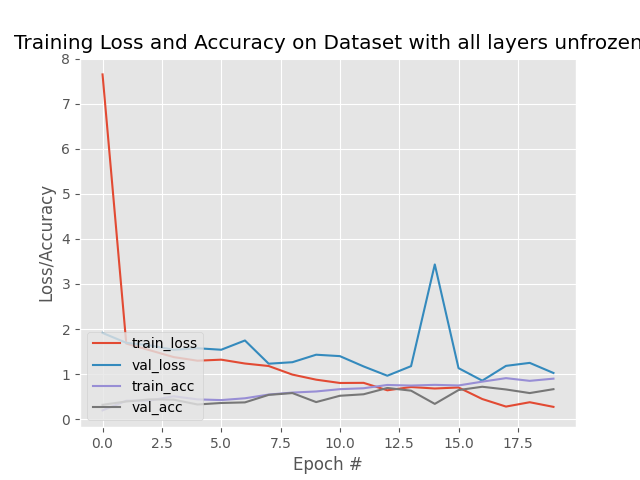
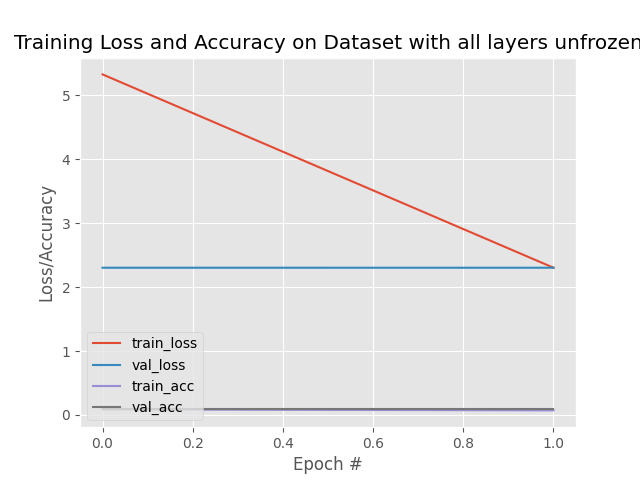
Code formatting

diff --git a/src/train_test_model.py b/src/train_test_model.py
@@ -5,20 +5,34 @@ from keras.metrics import CategoricalAccuracy
 import matplotlib.pyplot as plt
 import numpy as np
 
-def train_network(model, train_gen, val_gen, train_x, train_y, val_x, val_y, batch_s, epochs1, epochs2):
+
+def train_network(model, train_x, train_y, val_x, val_y, batch_s, epochs1, epochs2):
+    """
+    Function to train network in two steps:
+        * Train network with initial VGG base layers frozen
+        * Unfreeze all layers and retrain with smaller learning rate
+    :param model: CNN model
+    :param train_x: training input
+    :param train_y: training outputs
+    :param val_x: validation inputs
+    :param val_y: validation outputs
+    :param batch_s: batch size
+    :param epochs1: epoch count for initial training
+    :param epochs2: epoch count for training all layers unfrozen
+    :return: trained network
+    """
+
     # Train model with frozen layers
     # ALl training with early stopping dictated by loss in validation over 3 runs
     model.compile(optimizer=Adam(lr=1e-3),
                   loss=CategoricalCrossentropy(),
                   metrics=[CategoricalAccuracy()])
 
-    Hist = model.fit(
-        # x=train_gen.flow(train_x, train_y, batch_size=batch_size),
+    hist = model.fit(
         x= train_x,
         y=train_y,
         batch_size = batch_s,
         steps_per_epoch=len(train_x) // batch_s,
-        # validation_data=val_gen.flow(val_x, val_y),
         validation_data=(val_x, val_y),
         validation_steps=len(val_x) // batch_s,
         epochs=epochs1,
@@ -28,10 +42,8 @@ def train_network(model, train_gen, val_gen, train_x, train_y, val_x, val_y, bat
         ]
     )
 
-    # Plot validation and train loss over course of training
-
     # plot the training loss and accuracy
-    plot_training_results(Hist, "Initial_training.png")
+    plot_training_results(hist, "Initial_training.png")
 
     # Train again with slower learning rate unfreezing all layers
     # Train over fewer epochs to stop overfitting
@@ -41,10 +53,10 @@ def train_network(model, train_gen, val_gen, train_x, train_y, val_x, val_y, bat
                   loss=CategoricalCrossentropy(),
                   metrics=[CategoricalAccuracy()])
 
-    Hist_2 = model.fit(
+    hist_2 = model.fit(
         x=train_x,
         y=train_y,
-	batch_size = batch_s,
+        batch_size = batch_s,
         steps_per_epoch=len(train_x) // batch_s,
         validation_data=(val_x, val_y),
         validation_steps=len(val_x) // batch_s,
@@ -55,31 +67,38 @@ def train_network(model, train_gen, val_gen, train_x, train_y, val_x, val_y, bat
         ]
     )
 
-    plot_training_results(Hist_2, "Fine_tuning_training.png")
+    plot_training_results(hist_2, "Fine_tuning_training.png")
 
     return model
 
 
 def test_network(model, test_x):
-    # run predictions on text images and return predictions
+    """
+    :param model:  CNN model
+    :param test_x: testing inputs
+    :return: ouputs predicted by the model
+    """
     y_predict = model.predict(x=test_x.astype("float32"), batch_size=10)
 
     return y_predict
 
 
-def plot_training_results(hist, plot_name):
-    # plot the training loss and accuracy
-    N = len(hist.history["loss"])
+def plot_training_results(hist_input, plot_name):
+    """
+    Function to plot loss and accuracy over epoch count for training
+    :param hist: training history
+    :param plot_name: plot name
+    """
+    n = len(hist_input.history["loss"])
     plt.style.use("ggplot")
     plt.figure()
-    plt.plot(np.arange(0, N), hist.history["loss"], label="train_loss")
-    plt.plot(np.arange(0, N), hist.history["val_loss"], label="val_loss")
-    plt.plot(np.arange(0, N), hist.history["categorical_accuracy"], label="train_acc")
-    plt.plot(np.arange(0, N), hist.history["val_categorical_accuracy"], label="val_acc")
+    plt.plot(np.arange(0, n), hist_input.history["loss"], label="train_loss")
+    plt.plot(np.arange(0, n), hist_input.history["val_loss"], label="val_loss")
+    plt.plot(np.arange(0, n), hist_input.history["categorical_accuracy"], label="train_acc")
+    plt.plot(np.arange(0, n), hist_input.history["val_categorical_accuracy"], label="val_acc")
     plt.title("Training Loss and Accuracy on Dataset with all layers unfrozen")
     plt.xlabel("Epoch #")
     plt.ylabel("Loss/Accuracy")
     plt.legend(loc="lower left")
     plt.savefig(plot_name)
     plt.show()
-

diff --git a/src/create_dummy_data.py b/src/create_dummy_data.py
@@ -1,5 +1,3 @@
-from random import randint
-
 from keras_preprocessing.image import ImageDataGenerator
 from sklearn.preprocessing import OneHotEncoder
 from sklearn.model_selection import train_test_split
@@ -7,7 +5,14 @@ import numpy as np
 from tensorflow.keras.datasets import fashion_mnist
 from skimage.transform import resize
 
+
 def get_fashion_images():
+    """
+    Function to load mnist_fashion data set:
+        * Only using a subset of the data for testing functionality of the model
+        * Resize the images to 512*512
+    :return: training and testing data
+    """
     (x_train, y_train), (x_test, y_test) = fashion_mnist.load_data()
     x_train = x_train[0:600]
     y_train = y_train[0:600]
@@ -25,6 +30,7 @@ def get_fashion_images():
         x_test_new.append(upgraded_pic)
     x_test_new = np.array(x_test_new)
 
+    # Encode labels via one-hot encoding
     onehot_encoder = OneHotEncoder(sparse=False)
     integer_encoded_train = y_train.reshape(len(y_train), 1)
     integer_encoded_test = y_test.reshape(len(y_test), 1)
@@ -35,15 +41,14 @@ def get_fashion_images():
     return x_train_new, x_test_new, y_train, y_test
 
 
+def generate_all_data():
+    """
+    Function to generate all dummy training validation and testing data for functionality testing of network
+    :return: training, validation, testing data and imageDataGenerators
+    """
+    trainX, testX, trainY, testY = get_fashion_images()
 
-
-def generate_all_data(height, width, classes, n_samples):
-    # x = create_dummy_inputs(height, width, n_samples)
-    # y = create_dummy_outputs(classes, n_samples)
-
-    trainX, testX, trainY, testY = get_fashion_images();
-    # trainX, testX, trainY, testY = train_test_split(x, y,
-    #                                                   test_size=0.2, stratify=y, random_state=42)
+    # Split trianing into training and validation
     trainX, valX, trainY, valY = train_test_split(trainX, trainY,
                                                       test_size=0.25, stratify=trainY, random_state=42)
 
@@ -56,8 +61,7 @@ def generate_all_data(height, width, classes, n_samples):
         shear_range=0.15,
         horizontal_flip=True,
         fill_mode="nearest")
-    # initialize the validation/testing data augmentation object (which
-    # we'll be adding mean subtraction to)
+    # initialize the validation/testing data augmentation object
     valAug = ImageDataGenerator()
 
     return trainX, trainY, valX, valY, testX, testY, trainAug, valAug

diff --git a/src/vgg_model.py b/src/vgg_model.py
@@ -7,14 +7,19 @@ from tensorflow.keras.layers import Concatenate
 from tensorflow.python.keras.layers import Conv2D, MaxPooling2D
 from tensorflow.python.keras import Sequential
 
-## Needed to download pre-trained weights for imagenet
+
+# Needed to download pre-trained weights for imagenet
 import ssl
 ssl._create_default_https_context = ssl._create_unverified_context
 
 
-
-## Function to create basic VGG19 model pretrained with custom FC layers
 def generate_vgg_model_basic(input_shape, classes_len):
+    """
+    Function to create VGG19 model pretrained with custom FC Layers
+    :param input_shape: image size
+    :param classes_len: number of classes
+    :return: model
+    """
     # Reconfigure single channel input into a greyscale 3 channel input
     img_input = Input(shape=(input_shape[0], input_shape[1], 1))
     img_conc = Concatenate()([img_input, img_input, img_input])
@@ -43,8 +48,13 @@ def generate_vgg_model_basic(input_shape, classes_len):
     return model
 
 
-## Function to generate VGG19 model adapted with extra convolutional layers due to larger image size
 def generate_vgg_model_adv(input_shape, classes_len):
+    """
+    Function to create VGG19 model with an extra convolutional layer with extra filters due to larger images
+    :param input_shape: image size
+    :param classes_len: number of classes
+    :return: model
+    """
     # Reconfigure single channel input into a greyscale 3 channel input
     img_input = Input(shape=(input_shape[0], input_shape[1], 1))
     img_conc = Concatenate()([img_input, img_input, img_input])
@@ -67,7 +77,7 @@ def generate_vgg_model_adv(input_shape, classes_len):
 
     model.add(MaxPooling2D((2, 2), strides=(2, 2)))
 
-    ## add fully connected layers for classification from features
+    # add fully connected layers for classification from features
     # Flatten
     model.add(Flatten())
 
@@ -78,9 +88,7 @@ def generate_vgg_model_adv(input_shape, classes_len):
     # Possible dropout for regularisation can be added later and experimented with
     # model.add(Dropout(0.1, name='Dropout_Regularization'))
 
-    ##Final output layer
+    # Final output layer
     model.add(Dense(classes_len, activation='softmax', name='Output'))
-
-    # for cnn_block_layer in model.layers[0].layers:
 
     return model

diff --git a/src/test_functionality.py b/src/test_functionality.py
@@ -14,8 +14,8 @@ input_shape = [512,512]
 # CLASSES = 3
 CLASSES = 10
 BATCH_SIZE = 10
-EPOCH_1 = 20
-EPOCH_2 = 10
+EPOCH_1 = 2
+EPOCH_2 = 2
 
 # Create CNN model
 if model_type == "basic":
@@ -27,7 +27,7 @@ else:
 # Freeze VGG19 pre-trained layers
 model.layers[0].trainable = False
 
-train_x, train_y, val_x, val_y, test_x, test_y, trainAug, valAug = generate_all_data(input_shape[0], input_shape[1], CLASSES, 150)
-model = train_network(model, trainAug, valAug, train_x, train_y, val_x, val_y, BATCH_SIZE, EPOCH_1, EPOCH_2)
+train_x, train_y, val_x, val_y, test_x, test_y, trainAug, valAug = generate_all_data()
+model = train_network(model, train_x, train_y, val_x, val_y, BATCH_SIZE, EPOCH_1, EPOCH_2)
 y_pred = test_network(model, test_x)
 print(y_pred)
